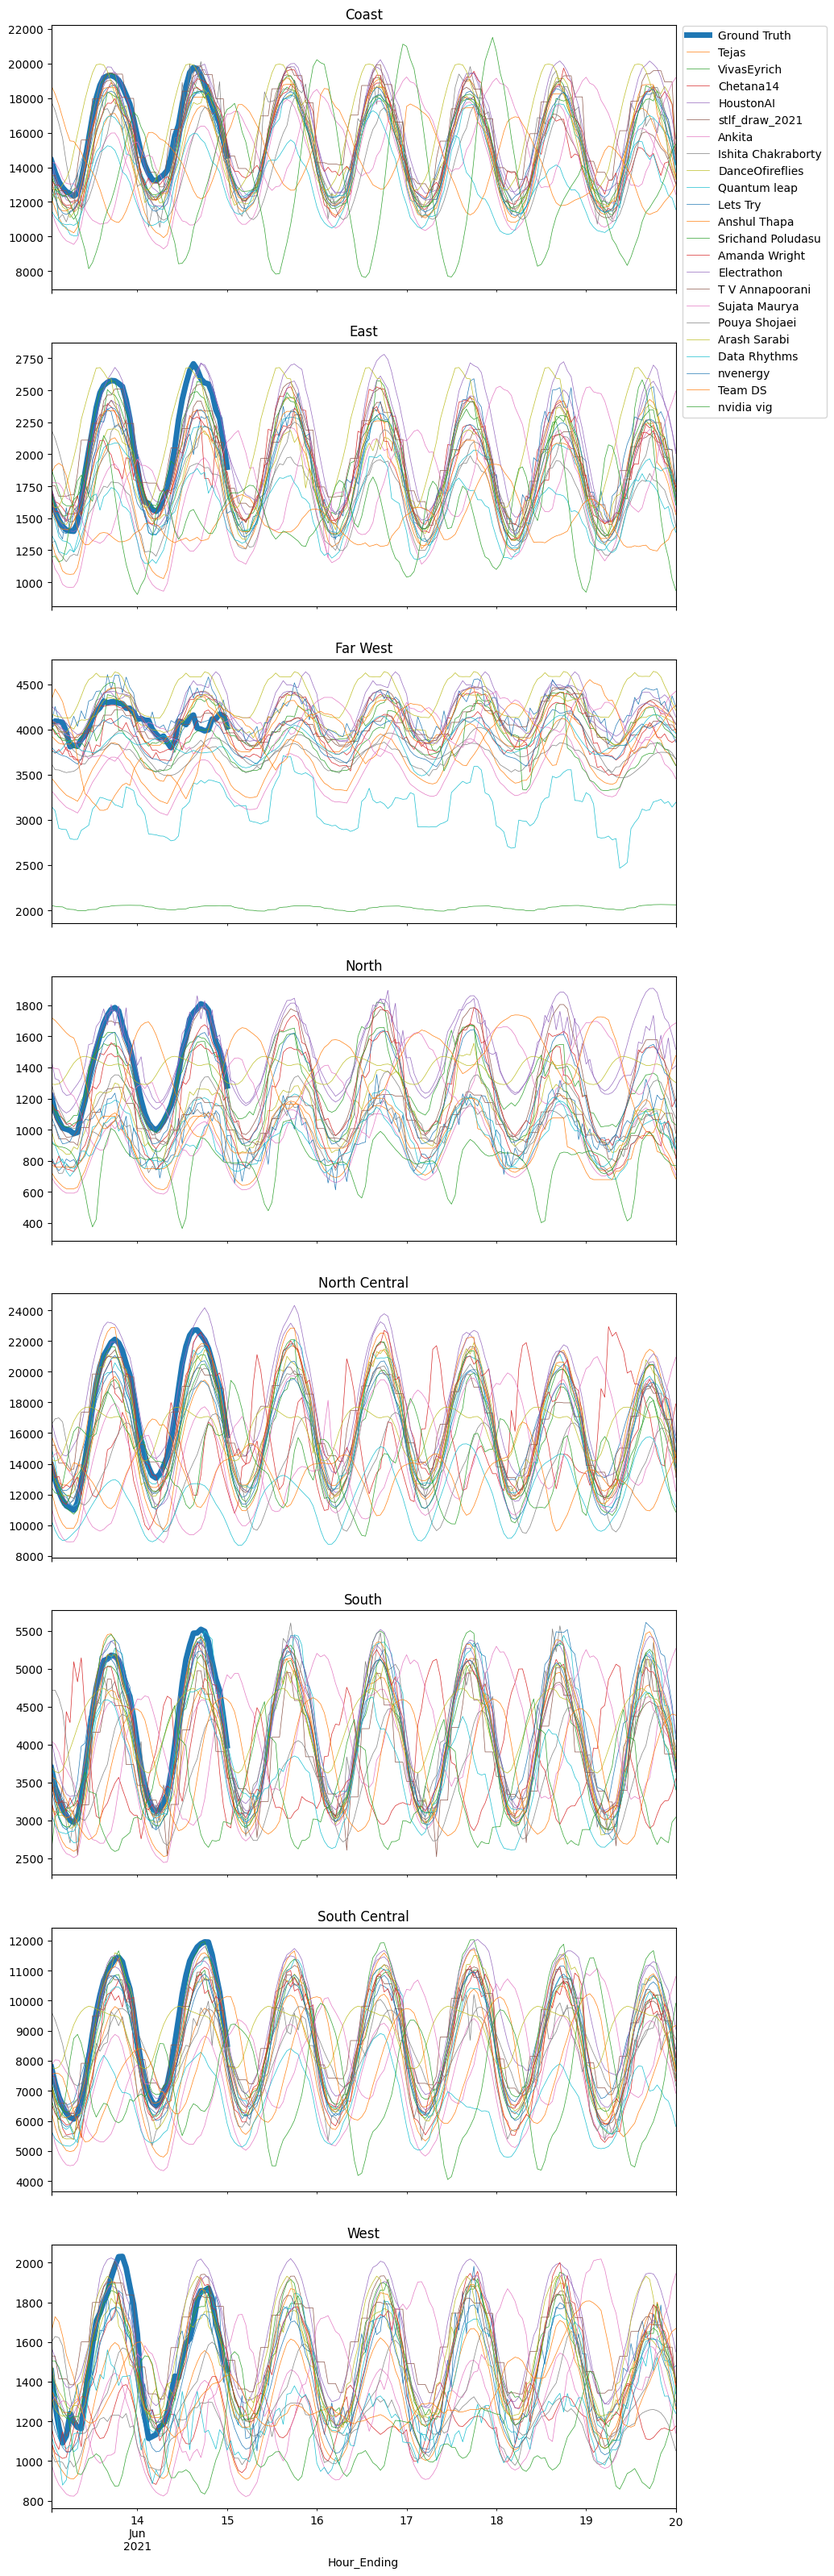
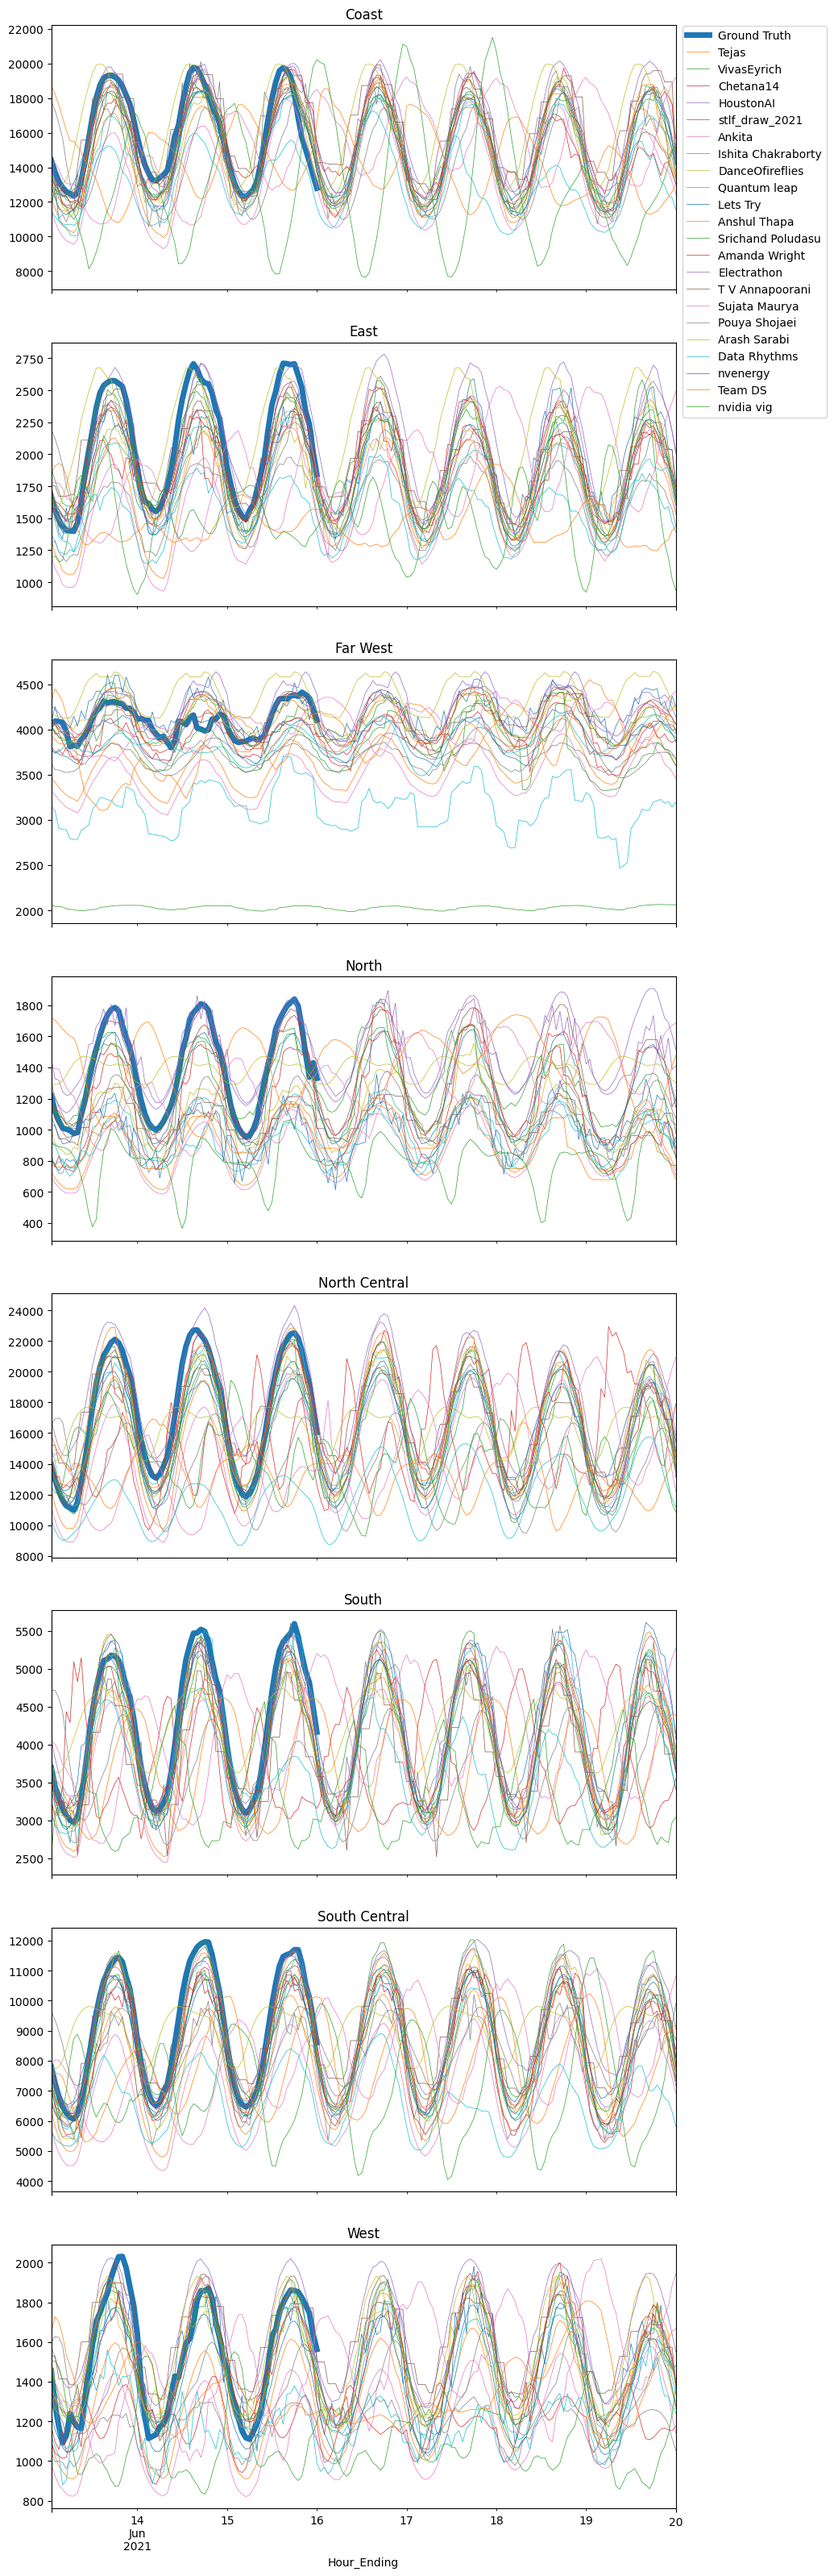
updated ercot and leaderboard

diff --git a/leaderboard/README.md b/leaderboard/README.md
@@ -1,26 +1,26 @@
 |    | Team               |     RMSE |
 |---:|:-------------------|---------:|
-|  0 | stlf_draw_2021     |  504.913 |
-|  1 | HoustonAI          |  589.898 |
-|  2 | Srichand Poludasu  |  590.52  |
-|  3 | Anshul Thapa       |  638.165 |
-|  4 | Amanda Wright      |  764.324 |
-|  5 | T V Annapoorani    |  803.251 |
-|  6 | DanceOfireflies    |  829.355 |
-|  7 | Electrathon        |  838.073 |
-|  8 | nvenergy           |  839.639 |
-|  9 | Lets Try           |  887.499 |
-| 10 | VivasEyrich        |  947.158 |
-| 11 | Quantum leap       |  969.296 |
-| 12 | Ishita Chakraborty | 1125.41  |
-| 13 | Tejas              | 1567.29  |
-| 14 | Arash Sarabi       | 1575.73  |
-| 15 | Chetana14          | 1922.31  |
-| 16 | Pouya Shojaei      | 2153.44  |
-| 17 | Ankita             | 2164.77  |
-| 18 | Data Rhythms       | 2883.33  |
-| 19 | nvidia vig         | 2931.38  |
-| 20 | Team DS            | 2991.56  |
-| 21 | Sujata Maurya      | 3417.92  |
+|  0 | stlf_draw_2021     |  492.617 |
+|  1 | Srichand Poludasu  |  590.956 |
+|  2 | Anshul Thapa       |  591.68  |
+|  3 | HoustonAI          |  596.991 |
+|  4 | Amanda Wright      |  787.084 |
+|  5 | DanceOfireflies    |  801.943 |
+|  6 | nvenergy           |  805.945 |
+|  7 | Electrathon        |  860.285 |
+|  8 | Quantum leap       |  882.553 |
+|  9 | Lets Try           |  882.911 |
+| 10 | T V Annapoorani    |  907.22  |
+| 11 | VivasEyrich        |  919.737 |
+| 12 | Ishita Chakraborty | 1079.61  |
+| 13 | Tejas              | 1353.14  |
+| 14 | Arash Sarabi       | 1542.82  |
+| 15 | Chetana14          | 1924.53  |
+| 16 | Ankita             | 1925.81  |
+| 17 | Pouya Shojaei      | 2108.33  |
+| 18 | Data Rhythms       | 2807.37  |
+| 19 | Team DS            | 2957.28  |
+| 20 | nvidia vig         | 3167.82  |
+| 21 | Sujata Maurya      | 3273.66  |
 
-Leaderboard up to 2021-06-15 00:00:00-05:00. This is NOT the final ranking.
+Leaderboard up to 2021-06-16 00:00:00-05:00. This is NOT the final ranking.
